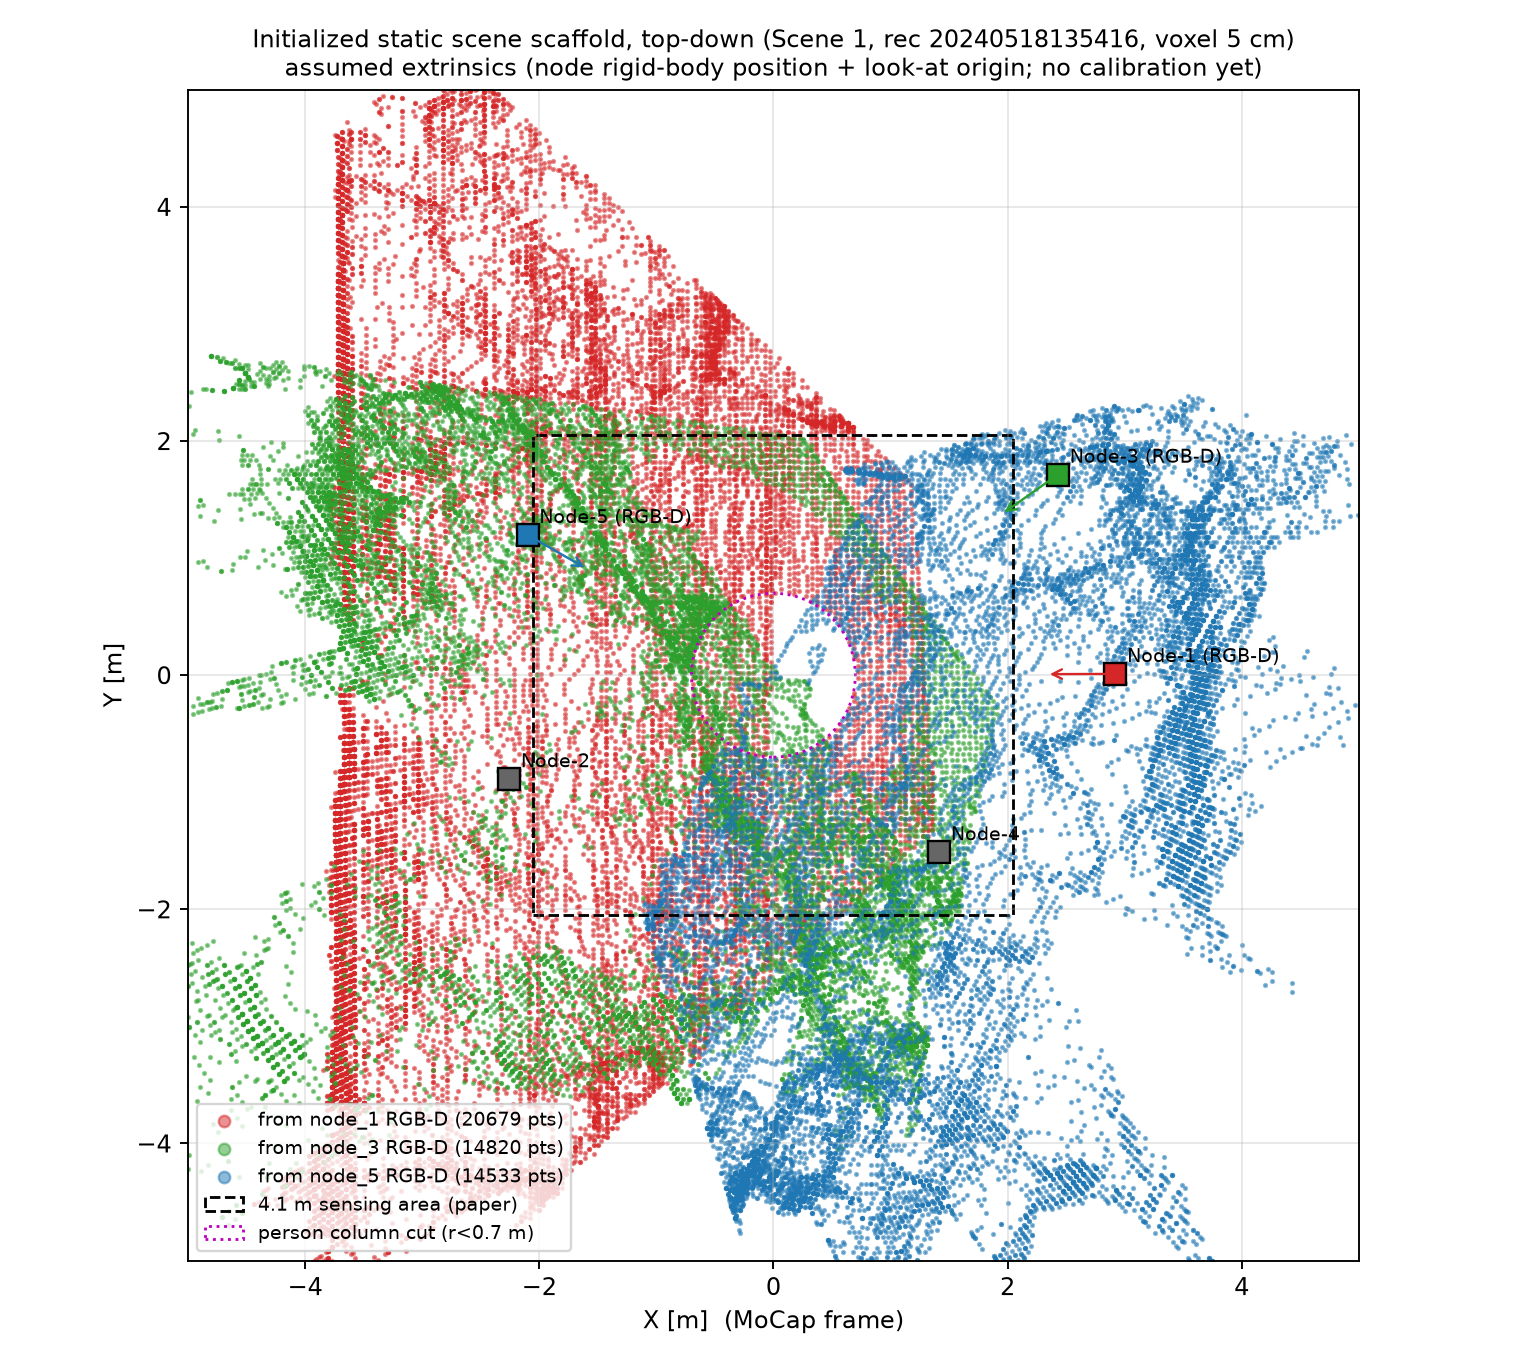
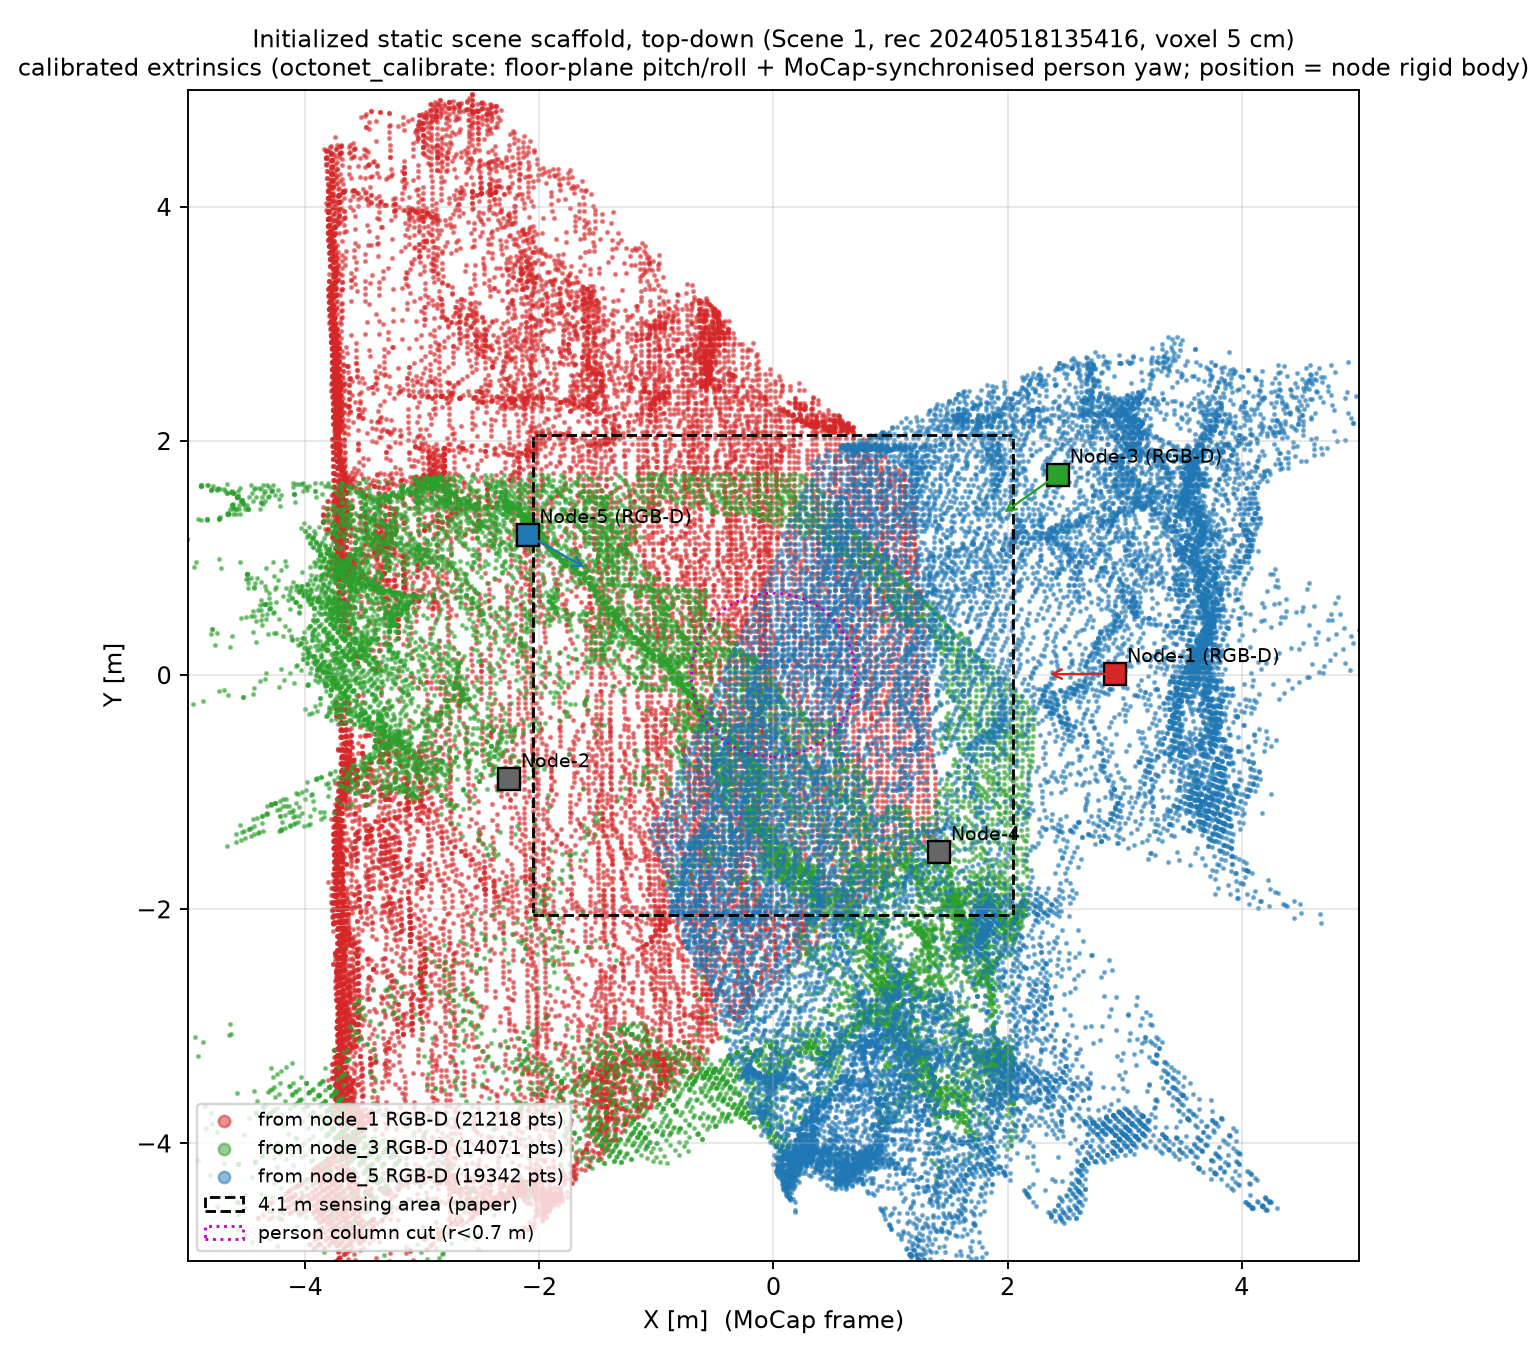
octonet_calibrate results: figures regenerated with calibrated poses, README table + open items, push_node.sh helper
node_1 yaw -179.1 (assumed -179.8), node_3 -136.3 (-144.8), node_5 -25.0 (-29.7); pitch/roll within 3 deg;
floor heights match the marker z within 7 cm; cross-camera NN distance 1-5 0.33->0.06 m, 3-5 0.31->0.11 m.

diff --git a/viz/README.md b/viz/README.md
@@ -3,10 +3,23 @@
 Produced on `mmsd-h100` by `python -m viz.<group>` from `nbs/` (scripts in `nbs/viz/`), 2026-10-27.
 Frame everywhere: MoCap (OptiTrack) world, metres, Z up, floor at 0, origin = the subject's standing spot.
 
-**Global caveats.** Node positions are measured (OptiTrack rigid bodies `Node1`..`Node5`); sensor
-*orientations* are assumed (horizontal, aimed at the origin) until `octonet_calibrate` exists. WiFi Tx/Rx
-and the obstacle are schematic from paper Fig. 2(a) (±0.5 m). Depth = 8-bit PNG × 10 m/255 with nominal
-D455 intrinsics. Vayyar SFCW shows the static scene only: the person is not recoverable (WRITE_UP #19).
+**Global caveats.** Node positions are measured (OptiTrack rigid bodies `Node1`..`Node5`). Camera
+orientations are **calibrated** by `preprocessing/octonet_calibrate.py` (pitch/roll from a RANSAC floor
+plane, yaw from the MoCap-synchronised person; position = the node rigid body, camera-to-marker offset
+ignored); the Vayyar/UWB on node_1 share node_1's camera yaw by assumption. WiFi Tx/Rx and the obstacle
+are schematic from paper Fig. 2(a) (±0.5 m). Depth = 8-bit PNG × 10 m/255 with nominal D455 intrinsics.
+Vayyar SFCW shows the static scene only: the person is not recoverable (WRITE_UP #19).
+
+| node | yaw (deg) | assumed yaw | yaw spread | pitch | roll | floor height vs marker z | range check cam/world |
+|---|---|---|---|---|---|---|---|
+| 1 | −179.1 | −179.8 | ±0.2 | −1.7 | +1.6 | 0.94 / 0.90 m | 0.989 |
+| 3 | −136.3 | −144.8 | ±0.4 | −1.8 | +0.3 | 0.92 / 0.93 m | 1.035 |
+| 5 | −25.0 | −29.7 | ±0.9 | +3.1 | +0.7 | 0.96 / 0.89 m | 1.101 |
+
+Cross-camera median nearest-neighbour distance, assumed → calibrated: 1–5 0.33 → 0.06 m, 3–5 0.31 → 0.11 m,
+1–3 0.14 → 0.17 m. ICP of nodes 3/5 onto node 1 asks for 13° / 0.3 m and 7° / 2.8 m (walls are ambiguous)
+and is reported in `extrinsics.json` but NOT applied. Node 5 reads ranges 10 % long: a camera-to-marker
+offset or a per-camera depth scale; open item.
 
 ## nodes/ — node layout + sensor availability
 - `nodes_topdown_2d.png` — top-down plan: measured nodes 1–5 (with heights), subject spot, 4.1 m sensing square (assumed centred), schematic WiFi Tx/Rx-1..4 + obstacle, D455 87° FoV wedges (nodes 1/3/5), Vayyar R_max 3.71 m arc.
@@ -16,10 +29,11 @@ D455 intrinsics. Vayyar SFCW shows the static scene only: the person is not reco
 
 ## geometry_init/ — initialized scene + person geometry, and how
 - `scene_scaffold_per_camera.png` — per RGB-D node: temporal-median depth (30 frames of the walk clip) with the person column outlined, and its single-camera cloud. Extrinsics-free; the trustworthy panel.
-- `scene_scaffold_topdown.png`, `scene_scaffold_3d.png` — the three clouds fused under the ASSUMED poses, person column cut, coloured by camera. The clouds do not close into one room (yaw is wrong): this is the concrete motivation for `octonet_calibrate`.
+- `scene_scaffold_topdown.png`, `scene_scaffold_3d.png` — the three clouds fused under the CALIBRATED poses, person column cut, coloured by camera. Node 1 and node 3 agree on the far wall at X ≈ −3.75 m; node 5 sees the opposite wall at X ≈ +3.7 m.
 - `person_skeleton.png` — 20-joint MoCap skeleton with bones for standing / sitting / lying (`sleep`) frames; joint order = OptiTrack CSV bone order (verified to 0.0 mm): Hip, Chest, Neck, Head, L/R Shoulder-UArm-FArm-Hand, L/R Thigh-Shin-Foot-Toe.
-- `init_pipeline.png` — block diagram of the init pipeline; dashed = pending (`octonet_calibrate`, SMPL fit).
-- Saved scaffold: node `/data/mmsd/NBS/data/OctoNet/scaffold_S1_assumed/pcl.npy` (50,032 × 6, xyz + PCA normals, 5 cm voxels) + `scaffold_metadata.json`.
+- `init_pipeline.png` — block diagram of the init pipeline; dashed = pending (SMPL fit).
+- `calibration.png` — `octonet_calibrate` diagnostics per camera: floor inliers + person centroids on the median depth, yaw solve vs the MoCap hip, fused top-down assumed vs calibrated with overlap metrics.
+- Saved scaffold: node `/data/mmsd/NBS/data/OctoNet/scaffold_S1_calibrated/pcl.npy` (≈54k × 6, xyz + PCA normals, 5 cm voxels) + `scaffold_metadata.json`; extrinsics at `calib_S1/extrinsics.json` (copy in `nbs/assets/calib_S1_extrinsics.json`).
 - `captions.txt`
 
 ## render_vs_gt/ — measured vs rendered
@@ -29,7 +43,7 @@ D455 intrinsics. Vayyar SFCW shows the static scene only: the person is not reco
 - `captions.txt`
 
 ## Open items these figures expose
-1. `octonet_calibrate`: per-camera yaw/pitch (and the radar/UWB mount) — the fused scaffold is wrong without it.
+1. `octonet_calibrate` v2: solve the camera-to-marker offset (node 5's 10 % range ratio) and the radar/UWB mount orientation on node_1 (currently = camera yaw by assumption); consider a joint wall-alignment refinement with a sane prior instead of free ICP.
 2. SFCW: the static return beyond the coupling sits near the per-frame noise floor (residual −1.2 dB vs mean); the SFCW objective must be the temporal-mean channel, clutter-guarded.
 3. UWB head (pulse PSF) and a real UWB frame stream (only one frame per recording was found — check other recordings / the raw HF files).
 4. WiFi: HT40 null/pilot mask before any loss; Tx/Rx positions need measuring.

diff --git a/CLAUDE.md b/CLAUDE.md
@@ -14,8 +14,9 @@ velocity field and micro-Doppler loss are NOT used (see `docs/prompts/port_4dps_
   974 Vayyar / 976 MoCap clips), products `/data/mmsd/NBS/data`, scratch `/ephemeral/scratch`.
   **Always `source tools/env_node.sh` first** (PYTHONPATH override, gcc-12, ARCH 9.0, data roots).
   Python = `/data/mmsd/envs/nbs/bin/python` (venv overlay on `mm4dps`: torch 2.9.1 cu128, numpy 1.26).
-  The node cannot reach GitHub: push from the workstation with `git push node main`; pull node commits
-  back with `git pull node main`. If `ssh mmsd-h100` says publickey denied: `brev login && brev refresh`.
+  The node cannot reach GitHub: push from the workstation with `tools/push_node.sh` (it first discards the
+  figures the node regenerated under `viz/`, which otherwise block the updateInstead push); pull node commits
+  back with `git pull node main`. The subject walks IN PLACE, so motion-based foregrounds are empty. If `ssh mmsd-h100` says publickey denied: `brev login && brev refresh`.
 - **Workstation**: `/home/adnan/Desktop/mmSD/NBS` (this checkout), GitHub `origin`
   (`adnan-armouti/NBS`). Figures are produced on the node (`python -m viz.<group>` from `nbs/`, scripts in `nbs/viz/`) and rsync'd back into `viz/` here.
 - Sensors per OctoNet node (from the data): node_1 Vayyar+UWB+RGB-D+WiFi+IRA+acoustic+thermal+polar;
@@ -47,8 +48,11 @@ velocity field and micro-Doppler loss are NOT used (see `docs/prompts/port_4dps_
   (`mocap_csv_final/mocap_S1/**/*.csv`) carry rigid bodies `Node1`..`Node5`, constant across Scene-1 takes;
   see `nbs/preprocessing/octonet_scene.py` (`NODE_POS_S1`, `load_rigid_bodies`). Scenes 2/3 CSVs have no
   node bodies. WiFi Tx/Rx and the obstacle are NOT tracked: schematic from paper Fig. 2(a) only (±0.5 m).
-  Camera/radar orientations are still unknown (assumed: at the node, looking at the origin) until
-  `octonet_calibrate.py` exists.
+  Camera orientations are calibrated by `nbs/preprocessing/octonet_calibrate.py` (floor plane → pitch/roll,
+  MoCap-synchronised person → yaw; yaw spread < 1°; results in `viz/README.md`). `octonet_scene.camera_pose`
+  returns the calibrated pose when `$NBS_DATA_OUT/calib_S1/extrinsics.json` exists (copy in `nbs/assets/`),
+  else the look-at-origin assumption; figure titles must print `pose_source()`. The radar/UWB on node_1 share
+  the camera yaw by assumption; the camera-to-marker offset is ignored (node 5 reads 10 % long).
 - RGB-D: depth PNGs are **8-bit, linear 0–10 m** (3.9 cm/level; OctoNet `png_to_depth(0,10)`), 640×480,
   ~30 Hz, nodes 1/3/5. The RGB .mp4 is NOT shipped (only cut-window json/txt). No intrinsics shipped
   (nominal D455 87°×58°). Per-node clip stamps differ by ~1 s: resolve paths via `cut_manual.csv`
